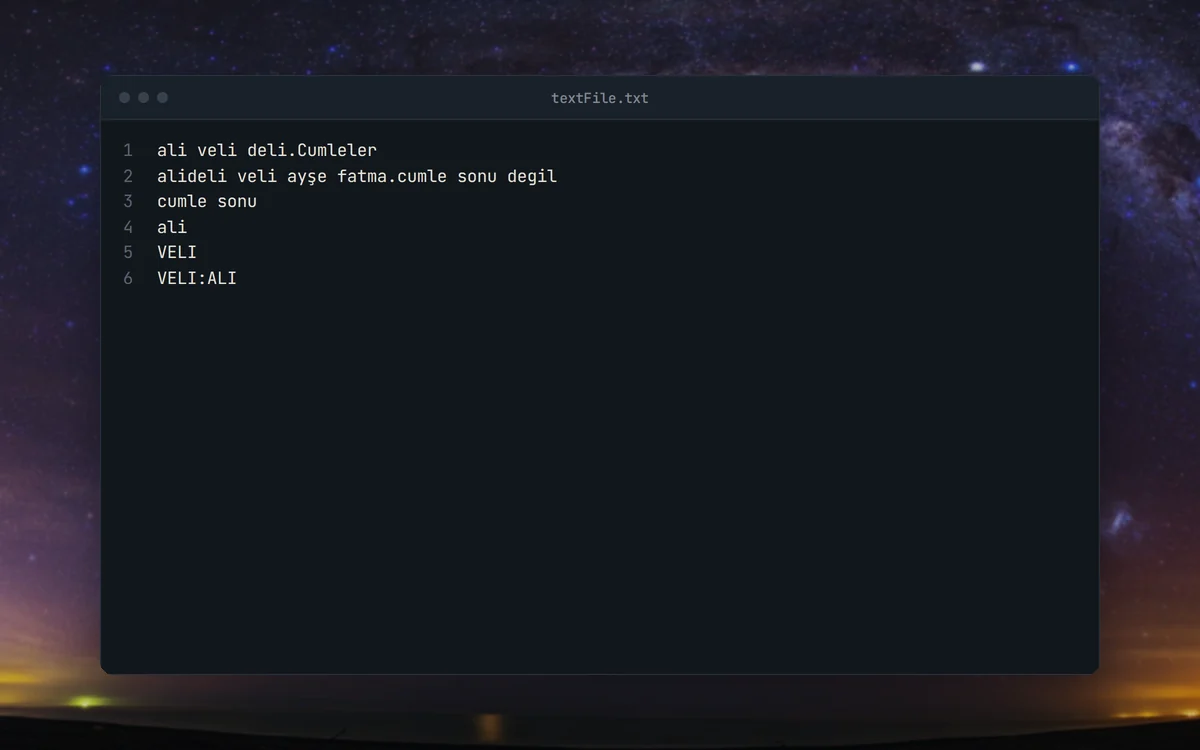
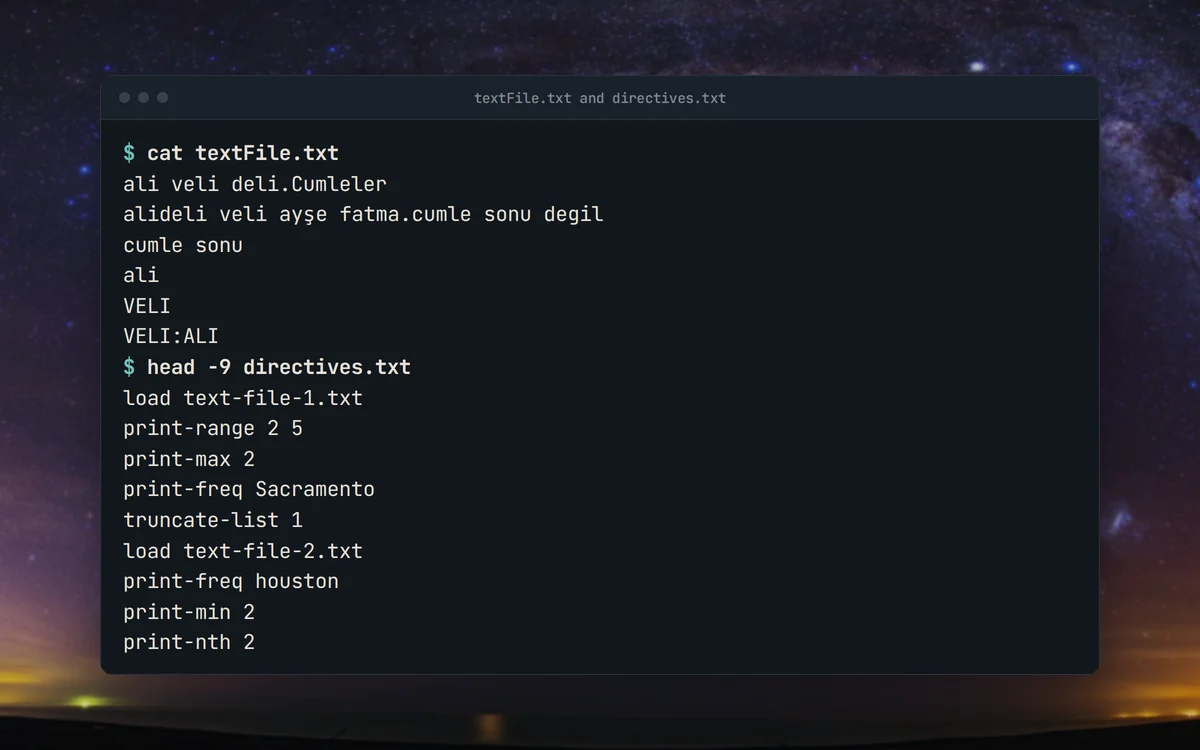
docs(readme): polish the readme visuals

Changed region(s): [[0.0925, 0.184, 0.4933, 0.8587], [0.4008, 0.1227, 0.6167, 0.1533]]

diff --git a/README.md b/README.md
@@ -37,7 +37,7 @@ The program reads a text file and a script of questions about it.
 |  |  |
 |---|---|
 | <img src="docs/assets/readme/icons/file-text.svg" width="18" height="18" alt=""> **Directive driven** | One directive per line in a plain file. Run it once and the answers print to standard output. |
-| <img src="docs/assets/readme/icons/arrow-down-wide-narrow.svg" width="18" height="18" alt=""> **Sorted while it counts** | [CircularDoublyLinkedList.java](CircularDoublyLinkedList.java) updates a word and moves it into place, so the list stays ordered by frequency. |
+| <img src="docs/assets/readme/icons/arrow-down-wide-narrow.svg" width="18" height="18" alt=""> **Sorted while it counts** | The [circular doubly linked list](CircularDoublyLinkedList.java) updates a word and moves it into place, so the list stays ordered by frequency. |
 | <img src="docs/assets/readme/icons/case-sensitive.svg" width="18" height="18" alt=""> **Simple counting rules** | Every word is lower-cased, and any character that is not a letter or digit separates words. |
 
 ## A quick tour
@@ -47,10 +47,10 @@ The program reads a text file and a script of questions about it.
     <td width="50%" valign="top">
       <picture>
         <source media="(prefers-color-scheme: dark)" srcset="docs/assets/readme/tour/input-dark.webp">
-        <img src="docs/assets/readme/tour/input-light.webp" alt="Code card showing the first lines of textFile.txt">
+        <img src="docs/assets/readme/tour/input-light.webp" alt="Terminal card showing textFile.txt and the first lines of directives.txt">
       </picture>
-      <h3>Sample text</h3>
-      The first six lines of textFile.txt, which the example directives load.
+      <h3>Text and directives</h3>
+      textFile.txt is the sample text. directives.txt lists the commands the program runs: load, print and truncate.
     </td>
     <td width="50%" valign="top">
       <picture>
